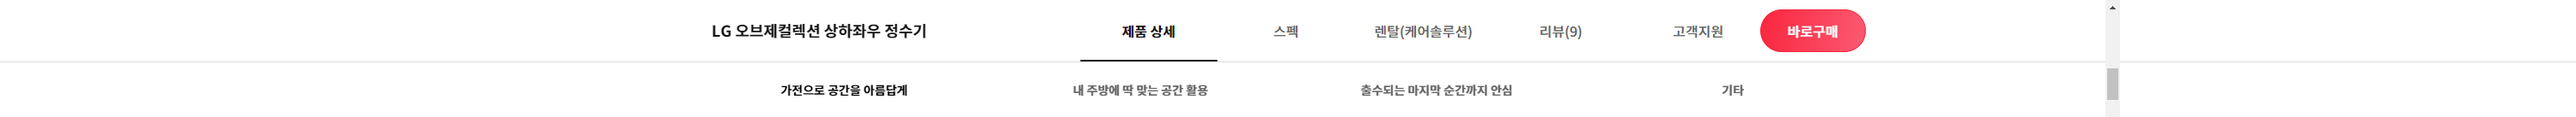
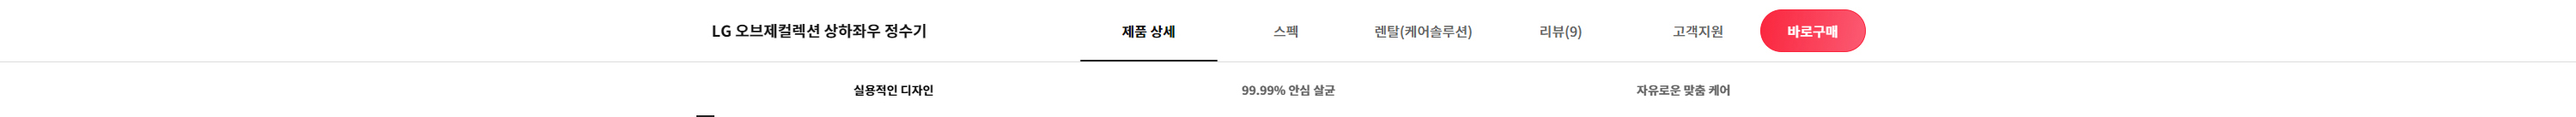
21.07.05

diff --git a/images/water-purifiers/md_new/usp/md_new_local.html b/images/water-purifiers/md_new/usp/md_new_local.html
@@ -82,9 +82,9 @@
 				
 				<!--<p class="obj"><img src="./img_scene00_obj01.png" alt=""></p>-->
 				<ul class="btn_anchor">
-					<li><a href="#featureIdx01"><strong>가전으로 공간을</strong><span>아름답게</span></a></li>
-					<li><a href="#featureIdx02"><strong>출수되는 마지막 까지</strong><span>안심되는 위생</span></a></li>
-					<li><a href="#featureIdx03"><strong>내가 원하는 대로</strong><span>선택하는 서비스</span></a></li>
+					<li><a href="#featureIdx01"><strong>실용적인 디자인</strong><span>공간과 편의를 고려한 세심함</span></a></li>
+					<li><a href="#featureIdx02"><strong>99.99% 안심 살균</strong><span>매일 관리받은 듯한 깨끗함</span></a></li>
+					<li><a href="#featureIdx03"><strong>자유로운 맞춤 케어</strong><span>자가관리부터 방문케어까지</span></a></li>
 				</ul>
 			</div>
 			<!-- //feature_cont -->
@@ -93,9 +93,9 @@
 	</div>
 	<!-- //관리자 : 특장점00 -->
 	
-	<!-- 관리자 : 특장점01 - 가전으로 공간을 아름답게 -->
+	<!-- 관리자 : 특장점01 - 실용적인 디자인 -->
 	<div id="featureIdx01" class="water-purifiers_202107">
-		<h2 class="blind">가전으로 공간을 아름답게</h2>
+		<h2 class="blind">실용적인 디자인</h2>
 		
 		<!-- section_cont -->
 		<section class="section_cont">
@@ -103,8 +103,8 @@
 			<div class="feature_cont">
 				<div class="title animate">
 					<p class="eyebrow"><span>LG 오브제 컬렉션</span></p>
-					<h3 class="tit"><span>내 주방에 딱 맞는 <br class="only_m">다양한 컬러</span></h3>
-					<p class="desc">차분하고 자연스러운 자연의 감성을 담은 편안한 소재로 내 주방을 감각적으로, 인테리어를 완성하세요</p>
+					<h3 class="tit"><span>감각적인 색을 더한 주방</span></h3>
+					<p class="desc">퓨리케어 상하좌우 정수기 오브제 컬렉션은 주방 한 켠에 설치하는 것만으로도 공간의 분위기를 감각적으로 변화시킵니다 <br class="only_pc_txt">취향과 인테리어에 맞춰 세련미를 더하는 3가지 컬러로 만나보세요</p>
 				</div>
 				<div class="box animate">
 					<p class="box_area img_resp only_m">영상 or 이미지 01-1</p>
@@ -118,21 +118,21 @@
 		</section>
 		<!-- //section_cont -->
 	</div>
-	<!-- //관리자 : 특장점01 - 가전으로 공간을 아름답게 -->
+	<!-- //관리자 : 특장점01 - 실용적인 디자인 -->
 	
 	
-	<!-- 관리자 : 특장점02 - 내 주방에 딱 맞는 공간 활용 -->
+	<!-- 관리자 : 특장점02 - 99.99% 안심 살균 -->
 	<div id="featureIdx02" class="water-purifiers_202107">	
-		<h2 class="blind">자연의 청량한 바람</h2>
+		<h2 class="blind">99.99% 안심 살균</h2>
 		
 		<!-- section_cont -->
 		<section class="section_cont">
 			<!-- feature_cont -->
 			<div class="feature_cont">
 				<div class="title animate">
-					<p class="eyebrow"><span>상하좌우 무빙 출수탭</span></p>
-					<h3 class="tit"><span>어떠한 용기, 공간에도 <br class="only_m">가장 알맞은 나만의 맞춤 출수</span></h3>
-					<p class="desc">상하좌우로 움직이고, 자동으로 높낮이까지 조절되는 국내 최초 상하좌우 무빙 출수탭으로 자유로운 설치는 물론, 물이 튀지 않아 위생적이며 온수일 경우 더 안전하게 사용 가능합니다</p>
+					<p class="eyebrow"><span>국내 최초 상하좌우 무빙 출수탭</span></p>
+					<h3 class="tit"><span>공간을 고려한 설계 <br class="only_m">편의를 생각한 배려</span></h3>
+					<p class="desc">저마다 사는 곳이 다르듯 주방의 크기도 다르기 마련 그래서 상하좌우 자유로운 무빙 출수탭으로 공간 활용성을 높였습니다 <br class="only_pc_txt">컵이나 냄비에 따라 높낮이도 자동 조절돼 뜨거운 온수를 받을 때 특히 안전하죠</p>
 				</div>
 				<div class="box animate">
 					<p class="box_area img_resp only_m">영상 or 이미지 02-1</p>
@@ -146,21 +146,21 @@
 		</section>
 		<!-- //section_cont -->
 	</div>
-	<!-- //관리자 : 특장점02 - 내 주방에 딱 맞는 공간 활용 -->
+	<!-- //관리자 : 특장점02 - 99.99% 안심 살균 -->
 	
 	
-	<!-- 관리자 : 특장점03 - 출수되는 마지막 순간까지 안심 -->
+	<!-- 관리자 : 특장점03 - 자유로운 맞춤 케어 -->
 	<div id="featureIdx03" class="water-purifiers_202107">
-		<h2 class="blind">출수되는 마지막 순간까지 안심</h2>
+		<h2 class="blind">자유로운 맞춤 케어</h2>
 		
 		<!-- section_cont -->
 		<section class="section_cont">
 			<!-- feature_cont -->
 			<div class="feature_cont">
 				<div class="title animate">
-					<p class="eyebrow"><span>99.99% 고온살균 + STS 직수관</span></p>
-					<h2 class="tit"><span>고온수로 완벽 위생 구현</span></h2>
-					<p class="desc">고온수로 필터부터 직수관, 코크까지 부유균과 부착균 모두 살균<br>STS 직수관으로 고온 안정성까지 확보</p>
+					<p class="eyebrow"><span>고온 살균 &amp; STS 직수관</span></p>
+					<h2 class="tit"><span>초미세 세균까지 <br class="only_m">99.99% 남김없이</span></h2>
+					<p class="desc">정수기 청결은 정수기에게 믿고 맡기세요 열과 부식에 강한 스테인리스 직수관은 물론 출수구와 필터, 코크까지 고온수로 99.99% 정밀하게 살균해 줍니다 <br class="only_pc_txt">주기적인 자동 살균 외에도 원할 땐 언제든 셀프 살균도 가능하죠</p>
 				</div>
 				<div class="box animate">
 					<p class="box_area img only_m">영상 or 이미지 03-1</p>
@@ -179,9 +179,9 @@
 			<!-- feature_cont -->
 			<div class="feature_cont">
 				<div class="title animate">
-					<p class="eyebrow"><span>UV nano 안심살균</span></p>
-					<h2 class="tit"><span>출수되는 마지막까지 <br class="only_m">안심할 수 있는 위생</span></h2>
-					<p class="desc">외부에 노출된 코크를 10분마다 UV-LED로 살균하고, 한 시간마다 자동살균하며, 사용자가 원할 때 버튼을 눌러 언제든 추가 살균하여 더 위생적 입니다</p>
+					<p class="eyebrow"><span>99.99% UVnano 안심살균</span></p>
+					<h2 class="tit"><span>한 시간에 한 번씩 <br class="only_m">매일매일</span></h2>
+					<p class="desc">외부에 노출된 코크는 물이 직접 닿는 곳인 만큼 그 어느 곳보다 세심한 관리가 필요하죠 UVnano 안심살균 시스템은 이러한 걱정을 씻은 듯이 날려 줍니다 <br class="only_pc_txt">별다른 설정 없이도 한 시간에 한 번씩 자동 살균을 진행해주니 24시간 언제든 안심하고 마실 수 있죠</p>
 				</div>
 				<div class="box animate">
 					<p class="box_area img only_m">영상 or 이미지 03-2</p>
@@ -201,8 +201,8 @@
 			<div class="feature_cont">
 				<div class="title animate">
 					<p class="eyebrow"><span>4단계 올 퓨리 필터 시스템</span></p>
-					<h2 class="tit"><span>새로워진 필터 시스템으로 더 깨끗하고 건강한 물</span></h2>
-					<p class="desc">나에게 필요한 미네랄은 그대로 중금속 9종과 노로바이러스 99.99% 제거 필터 적용으로 더욱 깨끗하고 안전하게</p>
+					<h2 class="tit"><span>엄격하게 정수된 <br class="only_m">급이 다른 수질</span></h2>
+					<p class="desc">새롭게 업그레이드된 4단계 필터 시스템은 무결점에 가까운 정수 능력을 발휘합니다 <br class="only_pc_txt">물속 건강한 미네랄은 그대로 유지하면서 중금속 9종, 박테리아, 노로바이러스까지 99.99% 완벽한 수준으로 제거해 아이들 이유식이나 분유에도 바로 사용할 수 있죠</p>
 				</div>
 				<div class="box animate">
 					<p class="box_area img only_m">영상 or 이미지 03-3</p>
@@ -216,7 +216,7 @@
 		</section>
 		<!-- //section_cont -->
 	</div>
-	<!-- //관리자 : 특장점03 - 출수되는 마지막 순간까지 안심 -->
+	<!-- //관리자 : 특장점03 - 자유로운 맞춤 케어 -->
 	
 	
 	<!-- 관리자 : 특장점04 - 기타 -->
@@ -229,8 +229,8 @@
 			<div class="feature_cont">
 				<div class="title animate">
 					<p class="eyebrow"><span>음성 안내</span></p>
-					<h2 class="tit"><span>똑똑한 음성으로 편리하게</span></h2>
-					<p class="desc">고온 살균, 필터 교체 및 기능 설정도 음성 안내로 명확하게</p>
+					<h2 class="tit"><span>알아서 척척 알려주는 <br class="only_m">똑똑한 목소리</span></h2>
+					<p class="desc">필터 수명은 얼마나 남았는지 살균은 며칠 주기로 해야 하는지 똑똑한 음성 안내가 때에 맞춰 다정하게 알려드려요 <br class="only_pc_txt">여기에 필터 교체나 살균 중간중간 진행 과정도 친절하게 브리핑 해주죠</p>
 				</div>
 				<div class="box animate">
 					<p class="box_area img only_m">영상 or 이미지 04-1</p>
@@ -250,8 +250,8 @@
 			<div class="feature_cont">
 				<div class="title animate">
 					<p class="eyebrow"><span>부가 기능</span></p>
-					<h2 class="tit"><span>보조 화면 추가, 출수 용량 세분화로 언제나 깨끗하고 편리하게</span></h2>
-					<p class="desc">자가 관리를 위한 보조화면 추가로 직수관, 출수구 살균을 원할때마다 내마음대로 120, 250, 500, 1000ml</p>
+					<h2 class="tit"><span>버튼 하나면 셀프 케어 끝</span></h2>
+					<p class="desc">남녀노소 누구나 쉽게 관리할 수 있도록 필요한 기능을 보기 쉽게 담았습니다 <br class="only_pc_txt">출수구 살균, 직수관 살균도 버튼 하나로 손쉽게 진행하고 출수 용량도 120, 250, 500, 1000mL 세밀하게 조절할 수 있죠</p>
 				</div>
 				<div class="box animate">
 					<p class="box_area img only_m">영상 or 이미지 04-2</p>
@@ -271,8 +271,8 @@
 			<div class="feature_cont">
 				<div class="title animate">
 					<p class="eyebrow"><span>LG ThinQ</span></p>
-					<h2 class="tit"><span>LG ThinQ 기능 추가로 스마트하게</span></h2>
-					<p class="desc">기본 출수 설정, 안내 음량 조절, 에너지 세이빙 모드 등 관리 기능 추가</p>
+					<h2 class="tit"><span>한눈에 보는 <br class="only_m">우리 집 물 습관</span></h2>
+					<p class="desc">평소 물 사용 습관은 물론 에너지 사용량과 자동 살균 설정까지 LG ThinQ 앱 하나로 한눈에 체크하고 관리하세요 <br class="only_pc_txt">집에서든 밖에서든 원격으로 손쉽게 제어할 수 있죠</p>
 				</div>
 				<div class="box animate">
 					<p class="box_area img only_m">영상 or 이미지 04-3</p>
@@ -291,9 +291,9 @@
 			<!-- feature_cont -->
 			<div class="feature_cont">
 				<div class="title animate">
-					<p class="eyebrow"><span>관리 타입</span></p>
-					<h2 class="tit"><span>편안한 우리집 정수기 관리</span></h2>
-					<p class="desc">필터 교체시기에 맞춰 똑똑하게 알려주고 케어솔루션, 자가관리에 따라 필터교체, 살균 서비스를 자유롭게 선택 가능 하죠</p>
+					<p class="eyebrow"><span>자가관리/방문관리</span></p>
+					<h2 class="tit"><span>취향맞춤 케어 서비스</span></h2>
+					<p class="desc">이제 필터 교체부터 구매까지 원스톱으로 직접 해결해 보세요 청정램프와 음성 안내, ThinQ 앱으로 교체 주기를 신속히 체크하고 퀵 체인지 방식으로 손쉽게 교체할 수 있죠 <br class="only_pc_txt">방문 관리를 신청하면 보다 꼼꼼한 케어를 원하는 날짜, 시간에 편하게 받을 수 있어요</p>
 				</div>
 				<div class="box animate">
 					<p class="box_area img only_m">영상 or 이미지 04-4</p>
